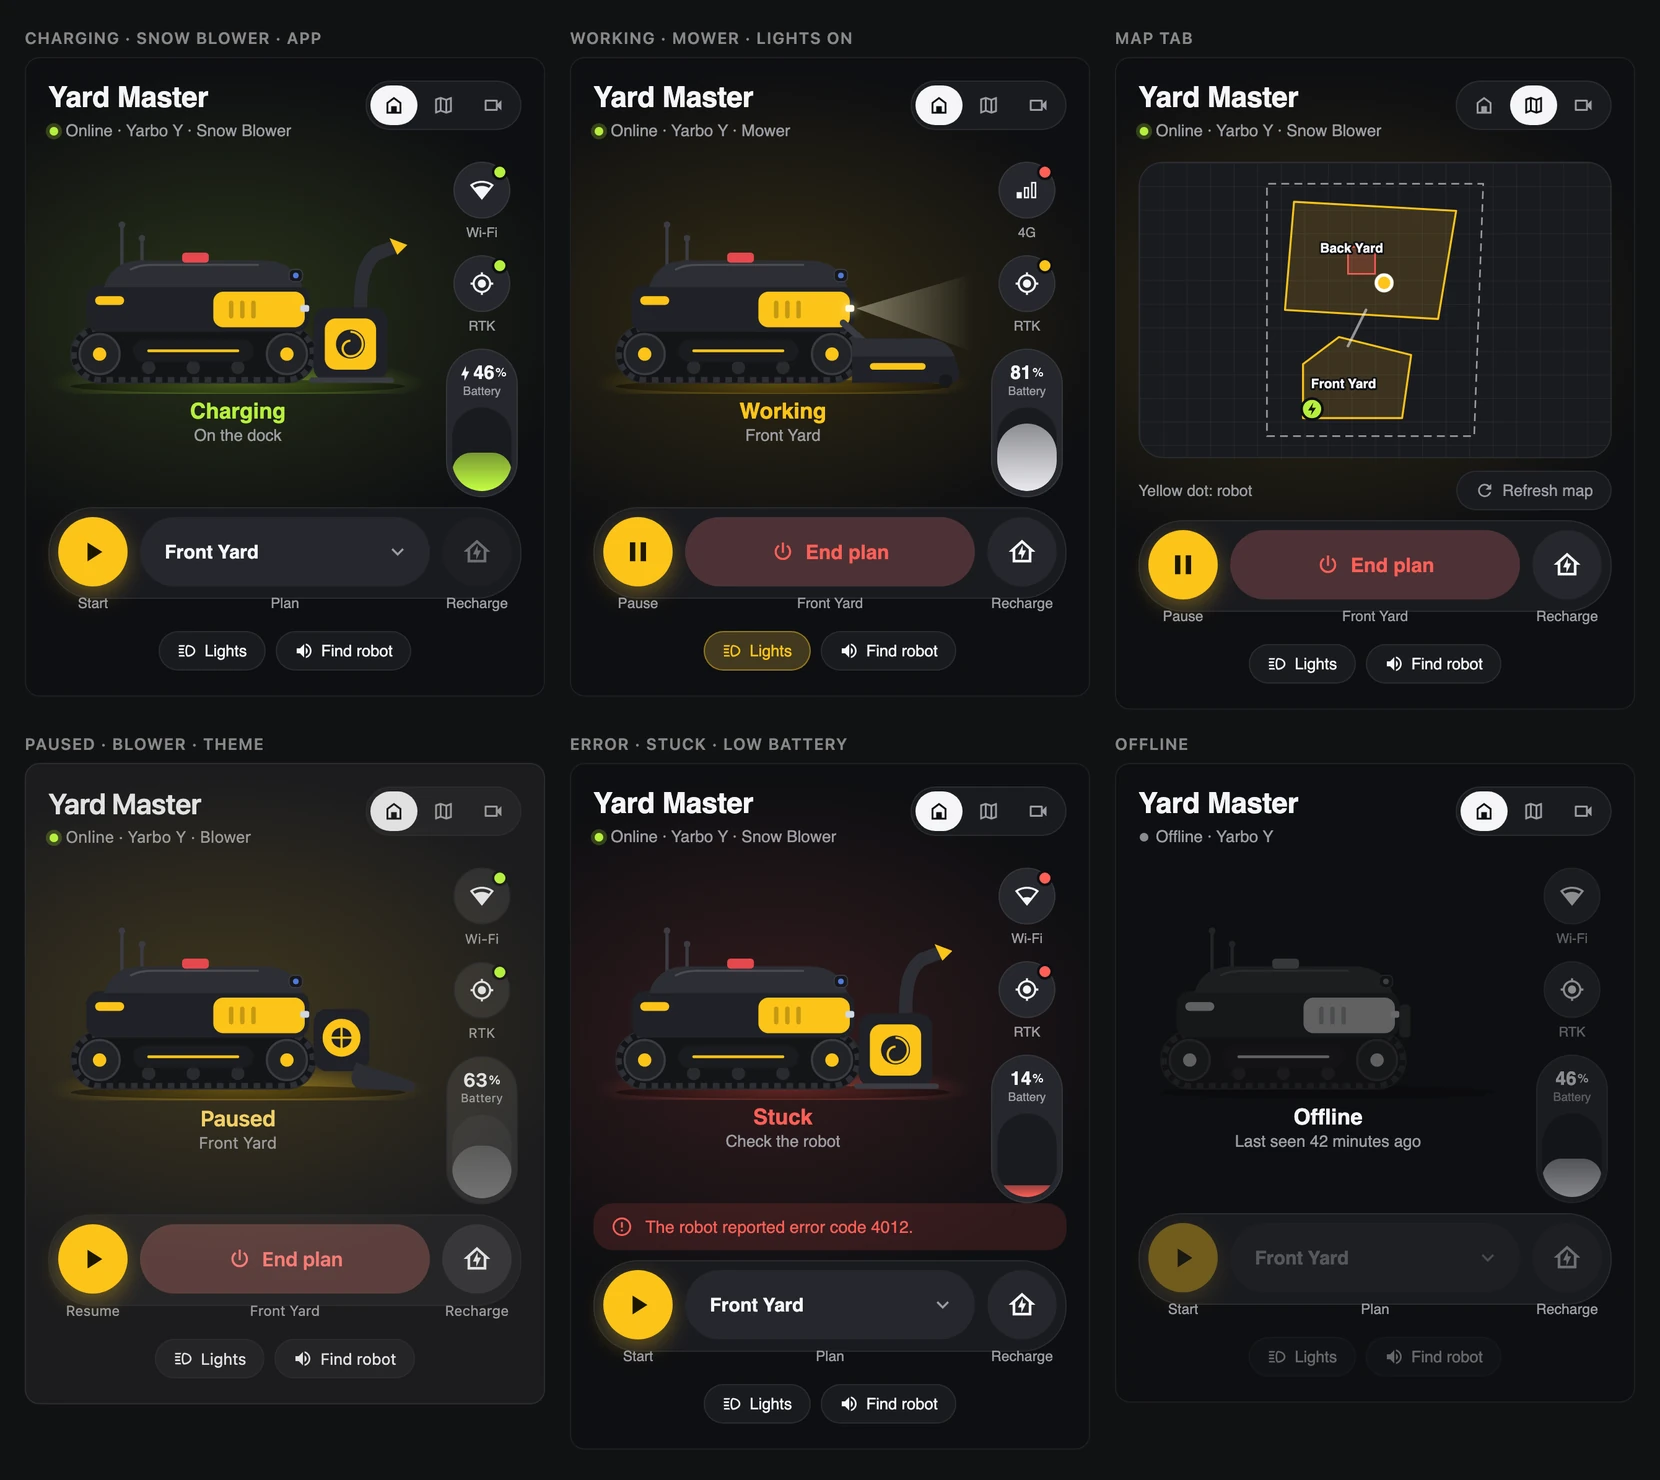
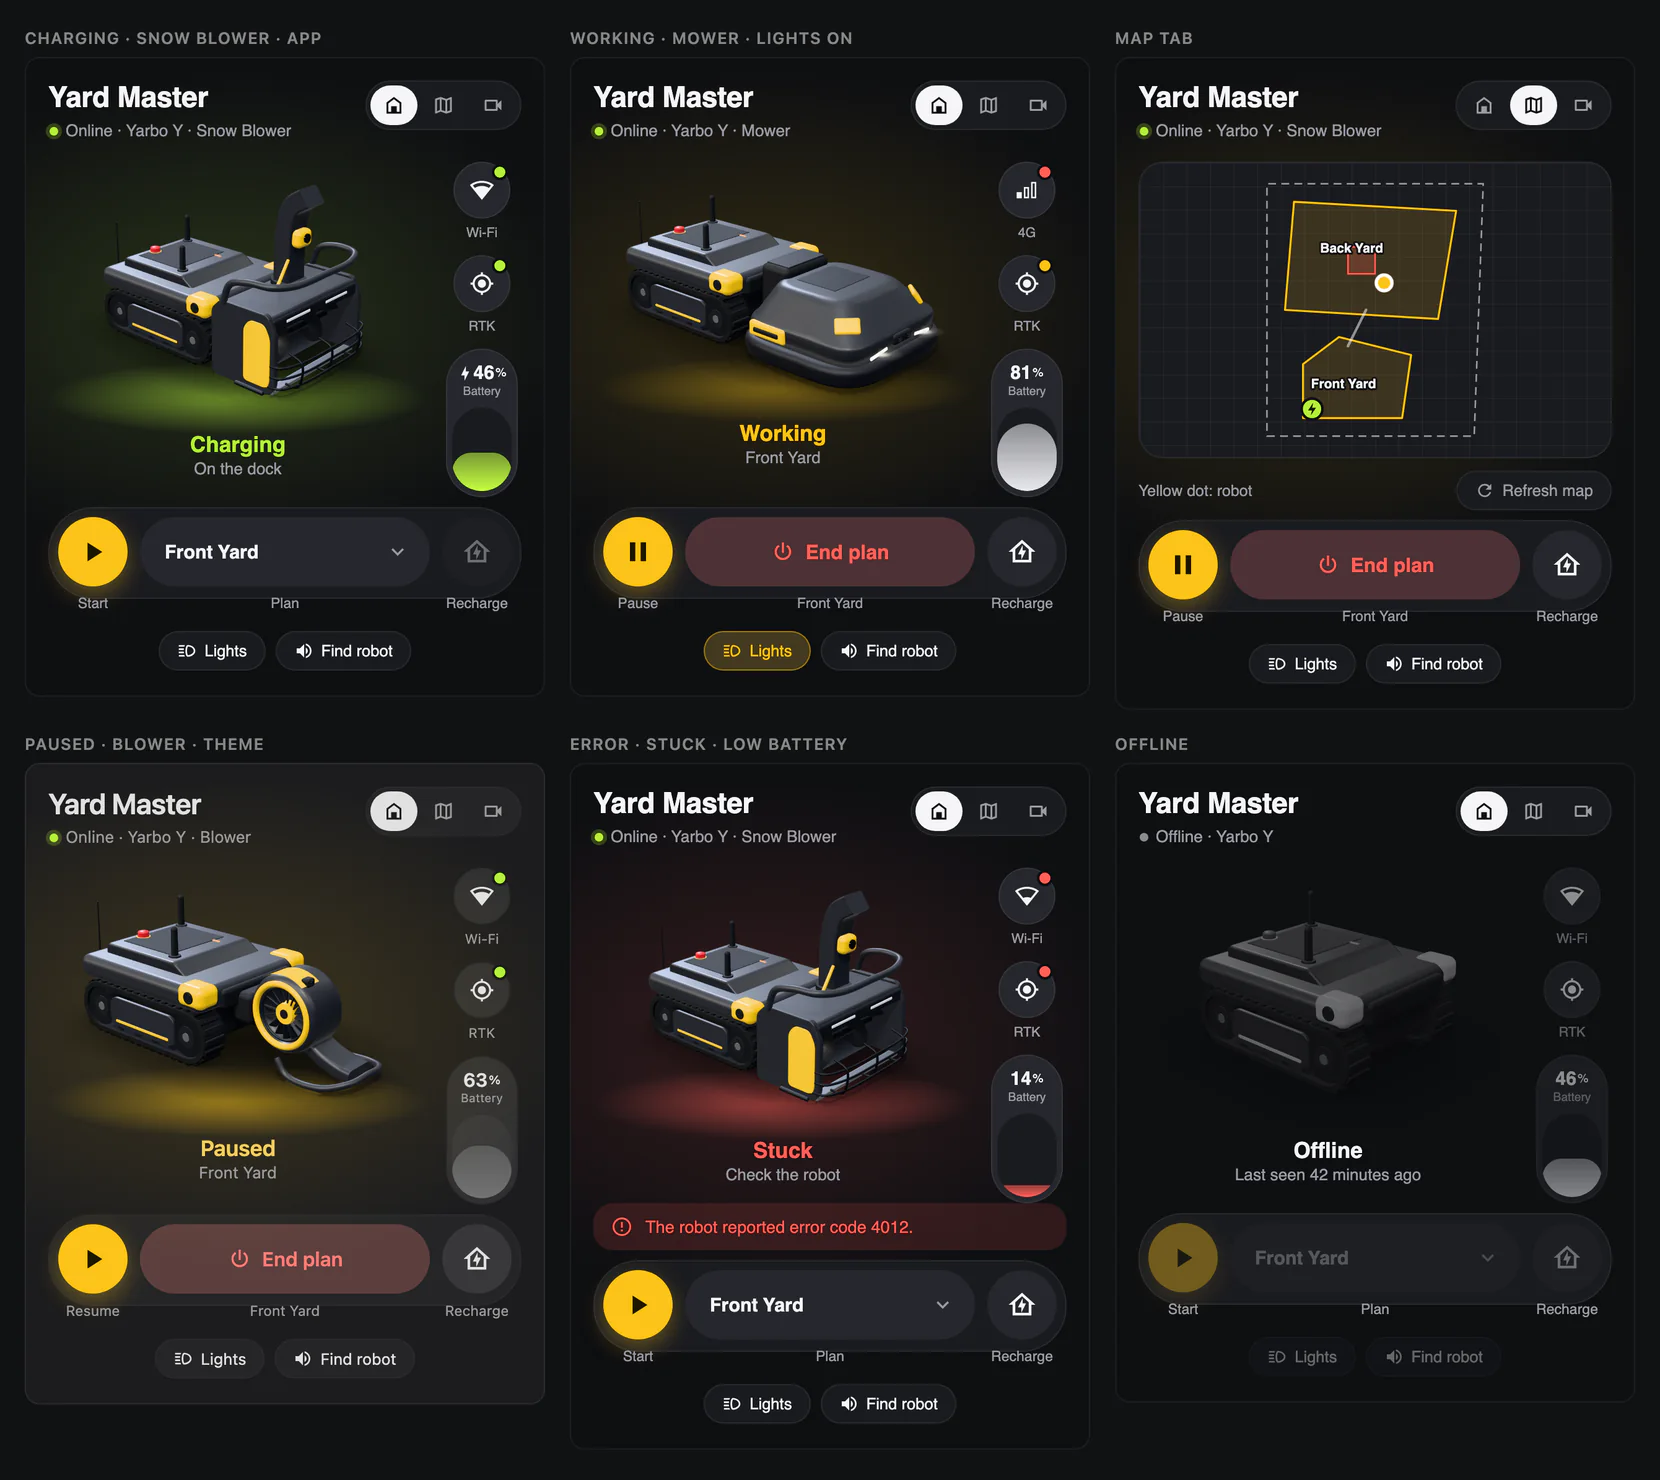
Yarbo card: show 3D pictures of the robot and its module
- The card shows rendered pictures (original 3D renders, not Yarbo's
  product photos) instead of the flat drawing: the Yarbo Y core, snow
  blower, mower and blower. The snow blower and mower also have a
  lights-on version in the same framing, preloaded so toggling Lights
  doesn't flash. The Smart Cover, no module, or an unknown one show the
  core.
- Yarbo M pictures (core, mower, snow blower, rear trimmer and collector)
  are used when the device model reads like "Yarbo M"; Yarbo's SDK only
  lists the Y Series so far.
- While the robot works or returns, the status-color glow under it
  pulses gently.
- The card's version fingerprint now covers the pictures, so browsers
  pick up new ones after an update. Tests check every picture the card
  names exists at the width it reserves.
- README screenshots and text updated for the pictures.

diff --git a/custom_components/yarbo/www/yarbo-card.js b/custom_components/yarbo/www/yarbo-card.js
@@ -7,7 +7,7 @@
  *   appearance: app             # app (dark, like the Yarbo app) or theme
  *   show_map: true              # optional, the work-zone map tab
  *   show_live: true             # optional, the Smart Vision tab (admins only)
- *   image: /local/yarbo.png     # optional, replaces the drawing of the robot
+ *   image: /local/yarbo.png     # optional, replaces the card's picture of the robot
  *   live_max_minutes: 5         # optional, stops the live camera automatically
  *
  * Entities are found through the integration's yarbo/devices command, by their
@@ -95,6 +95,10 @@ function headKind(headType) {
     case "Smart Cover":
       return "cover";
     default:
+      // Yarbo's SDK doesn't list the Yarbo M's rear trimmer and collector yet, so
+      // these names are a guess.
+      if (/trim/i.test(headType || "")) return "trim";
+      if (/collect/i.test(headType || "")) return "collect";
       return "none";
   }
 }
@@ -107,81 +111,46 @@ function signalBars(rssi) {
   return 1;
 }
 
-// ---- Drawing of the robot ---------------------------------------------------
+// ---- Picture of the robot ----------------------------------------------------------
 
-const HEADS = {
-  mower: `
-    <path class="rb-arm" d="M244 118 L262 134"/>
-    <path class="rb-body" d="M252 132 H318 Q338 132 344 148 L348 160 Q350 172 338 172 H252 Z"/>
-    <path class="rb-lid" d="M252 132 H318 Q338 132 344 148 H252 Z"/>
-    <rect class="rb-yellow" x="268" y="154" width="50" height="6" rx="3"/>
-    <circle class="rb-tire" cx="336" cy="170" r="6"/>`,
-  snow: `
-    <path class="rb-chute" d="M300 104 C300 82 302 66 314 56 L330 50"/>
-    <path class="rb-yellow" d="M326 42 L342 48 L333 57 Z"/>
-    <rect class="rb-body" x="258" y="104" width="66" height="66" rx="12"/>
-    <rect class="rb-yellow" x="268" y="114" width="46" height="46" rx="10"/>
-    <circle class="rb-body" cx="291" cy="137" r="13"/>
-    <path class="rb-spiral" d="M291 126 a11 11 0 0 1 0 22 a7 7 0 0 1 0 -14"/>
-    <rect class="rb-steel" x="254" y="167" width="76" height="5" rx="2.5"/>`,
-  blower: `
-    <rect class="rb-body" x="258" y="100" width="50" height="56" rx="12"/>
-    <circle class="rb-yellow" cx="283" cy="126" r="17"/>
-    <circle class="rb-body" cx="283" cy="126" r="9"/>
-    <path class="rb-spoke" d="M283 117 V135 M274 126 H292"/>
-    <path class="rb-lid" d="M296 148 L344 164 Q351 167 348 174 L300 172 Q291 170 292 160 Z"/>`,
-  cover: `
-    <path class="rb-lid" d="M96 62 V44 Q96 36 104 36 H210 Q218 36 218 44 V62 Z"/>
-    <rect class="rb-yellow" x="112" y="44" width="62" height="5" rx="2.5"/>
-    <rect class="rb-lid" x="254" y="96" width="10" height="30" rx="4"/>`,
-  none: `<rect class="rb-lid" x="254" y="96" width="10" height="30" rx="4"/>`,
+// The card's own renders of each series and module, served next to this file. They
+// carry the card's ?v= fingerprint, so an update refreshes them in the browser cache too.
+const PICTURE_DIR = new URL("images/", import.meta.url);
+const PICTURE_VERSION = new URL(import.meta.url).search;
+// Widths at 600 px high, so the card keeps its layout while a picture loads.
+const PICTURES = {
+  "y-core": 856, "y-snow": 808, "y-mower": 1008, "y-blower": 946,
+  "m-core": 823, "m-snow": 867, "m-mower": 918, "m-trim": 882, "m-collect": 961,
 };
+// These also come with the module's lights on, in the same framing.
+const LIT_PICTURES = new Set(["y-snow", "y-mower"]);
+// Kept referenced, so the browser keeps them decoded and a new <img> shows them at once.
+const preloaded = new Map();
 
-function robotSvg(kind, { moving, light }) {
-  return `
-    <svg viewBox="20 20 340 162" role="img" aria-label="Yarbo robot">
-      <defs>
-        <radialGradient id="yc-glow" cx="50%" cy="50%" r="50%">
-          <stop offset="0" style="stop-color: var(--yc-tone, transparent); stop-opacity: 0.55"/>
-          <stop offset="1" style="stop-color: var(--yc-tone, transparent); stop-opacity: 0"/>
-        </radialGradient>
-        <linearGradient id="yc-beam" x1="0" x2="1" y1="0" y2="0">
-          <stop offset="0" stop-color="#fff8d6" stop-opacity="0.75"/>
-          <stop offset="1" stop-color="#fff8d6" stop-opacity="0"/>
-        </linearGradient>
-      </defs>
-      <ellipse cx="190" cy="172" rx="170" ry="24" fill="url(#yc-glow)"/>
-      <ellipse class="rb-shadow" cx="190" cy="175" rx="150" ry="6"/>
-      ${light ? `<polygon class="rb-beam" points="256,105 360,74 360,144" fill="url(#yc-beam)"/>` : ""}
-      <line class="rb-antenna" x1="86" y1="66" x2="86" y2="30"/>
-      <line class="rb-antenna" x1="104" y1="64" x2="104" y2="42"/>
-      <circle class="rb-tip" cx="86" cy="30" r="3"/>
-      <circle class="rb-tip" cx="104" cy="42" r="3"/>
-      <rect class="rb-track" x="40" y="120" width="220" height="52" rx="26"/>
-      <rect class="rb-tread${moving ? " moving" : ""}" x="43" y="123" width="214" height="46" rx="23"/>
-      <circle class="rb-wheel" cx="66" cy="146" r="18"/>
-      <circle class="rb-wheel" cx="234" cy="146" r="18"/>
-      <circle class="rb-hub" cx="66" cy="146" r="6"/>
-      <circle class="rb-hub" cx="234" cy="146" r="6"/>
-      <circle class="rb-roller" cx="110" cy="158" r="6"/>
-      <circle class="rb-roller" cx="150" cy="158" r="6"/>
-      <circle class="rb-roller" cx="190" cy="158" r="6"/>
-      <rect class="rb-cover" x="96" y="133" width="108" height="20" rx="10"/>
-      <line class="rb-stripe" x1="110" y1="143" x2="190" y2="143"/>
-      <rect class="rb-body" x="54" y="84" width="200" height="42" rx="12"/>
-      <rect class="rb-yellow" x="168" y="90" width="82" height="32" rx="9"/>
-      <rect class="rb-vent" x="182" y="98" width="4" height="16" rx="2"/>
-      <rect class="rb-vent" x="192" y="98" width="4" height="16" rx="2"/>
-      <rect class="rb-vent" x="202" y="98" width="4" height="16" rx="2"/>
-      <rect class="rb-yellow" x="62" y="94" width="26" height="8" rx="4"/>
-      <path class="rb-lid" d="M70 86 Q76 64 100 62 H214 Q240 62 248 86 Z"/>
-      <path class="rb-shine" d="M94 70 Q102 66 112 66 H208"/>
-      <rect class="rb-estop" x="140" y="55" width="24" height="9" rx="3"/>
-      <rect class="rb-camera" x="236" y="70" width="12" height="11" rx="4"/>
-      <circle class="rb-lens" cx="242" cy="75.5" r="2.6"/>
-      <rect class="rb-led${light ? " on" : ""}" x="246" y="102" width="8" height="6" rx="2"/>
-      ${HEADS[kind] || HEADS.none}
-    </svg>`;
+function pictureUrl(file) {
+  return new URL(`${file}.webp${PICTURE_VERSION}`, PICTURE_DIR).href;
+}
+
+function preload(url) {
+  if (preloaded.has(url)) return;
+  const img = new Image();
+  img.src = url;
+  preloaded.set(url, img);
+}
+
+// Yarbo's SDK only knows the Y Series so far; a model named like "Yarbo M" gets the M pictures.
+function robotSeries(model) {
+  return /\bM\d*\b/.test(model || "") ? "m" : "y";
+}
+
+function robotPicture(series, kind, light) {
+  // A module without its own picture, such as the Smart Cover, shows the bare core.
+  const name = `${series}-${kind}` in PICTURES ? `${series}-${kind}` : `${series}-core`;
+  const lit = LIT_PICTURES.has(name);
+  // Load the other lights version too, so switching the lights doesn't flash an empty frame.
+  if (lit) preload(pictureUrl(light ? name : `${name}-lights`));
+  const file = lit && light ? `${name}-lights` : name;
+  return `<img src="${pictureUrl(file)}" width="${PICTURES[name]}" height="600" alt="">`;
 }
 
 // ---- Work-zone map ------------------------------------------------------------
@@ -388,9 +357,16 @@ const STYLE = `
     display: grid; grid-template-columns: minmax(0, 1fr) 64px; align-items: center; gap: 12px;
   }
   .stage { display: flex; flex-direction: column; align-items: center; gap: 4px; min-width: 0; }
-  .robot { width: 100%; max-width: 380px; transition: filter 0.4s, opacity 0.4s; }
-  .robot svg, .robot img {
-    display: block; width: 100%; height: auto; max-height: 200px; object-fit: contain;
+  .robot { position: relative; width: 100%; max-width: 380px; transition: filter 0.4s, opacity 0.4s; }
+  /* A glow in the status color under the robot, breathing while it drives. */
+  .robot::before {
+    content: ""; position: absolute; left: 0; right: 0; bottom: -3%; height: 30%;
+    background: radial-gradient(closest-side, color-mix(in srgb, var(--yc-tone, transparent) 55%, transparent), transparent);
+    pointer-events: none;
+  }
+  .robot.moving::before { animation: yc-glow 2.4s ease-in-out infinite; }
+  .robot img {
+    position: relative; display: block; width: 100%; height: auto; max-height: 200px; object-fit: contain;
   }
   .robot.offline { filter: grayscale(1); opacity: 0.45; }
   .state { text-align: center; }
@@ -580,36 +556,7 @@ const STYLE = `
   }
   .toast.show { opacity: 1; transform: none; }
 
-  /* Robot drawing */
-  .rb-shadow { fill: #000; opacity: 0.4; }
-  .rb-track { fill: #141518; stroke: #2a2b30; stroke-width: 1; }
-  .rb-tread { fill: none; stroke: #2e2f35; stroke-width: 5; stroke-dasharray: 6 5; }
-  .rb-tread.moving { animation: yc-tread 0.5s linear infinite; }
-  .rb-wheel { fill: #222327; stroke: #3a3b41; stroke-width: 2; }
-  .rb-hub, .rb-yellow { fill: #fcc419; }
-  .rb-roller { fill: #2a2b30; }
-  .rb-cover { fill: #1b1c20; }
-  .rb-stripe { stroke: #fcc419; stroke-width: 2.5; stroke-linecap: round; }
-  .rb-body { fill: #202127; }
-  .rb-lid { fill: #2d2e34; }
-  .rb-shine { fill: none; stroke: rgba(255, 255, 255, 0.14); stroke-width: 2; stroke-linecap: round; }
-  .rb-vent { fill: rgba(0, 0, 0, 0.22); }
-  .rb-estop { fill: #e5484d; }
-  .rb-antenna { stroke: #3b3c43; stroke-width: 3; stroke-linecap: round; }
-  .rb-tip { fill: #3b3c43; }
-  .rb-camera { fill: #17181c; stroke: #3b3c43; stroke-width: 1; }
-  .rb-lens { fill: #5b8cff; opacity: 0.85; }
-  .rb-led { fill: #cfd6e4; }
-  .rb-led.on { fill: #fffbe6; filter: drop-shadow(0 0 4px #fff3b0); }
-  .rb-beam { opacity: 0.55; }
-  .rb-arm { stroke: #3b3c43; stroke-width: 6; stroke-linecap: round; }
-  .rb-tire { fill: #17181c; }
-  .rb-chute { fill: none; stroke: #2d2e34; stroke-width: 12; stroke-linecap: round; }
-  .rb-spiral { fill: none; stroke: #fcc419; stroke-width: 2; }
-  .rb-steel { fill: #3b3c43; }
-  .rb-spoke { stroke: #fcc419; stroke-width: 2; stroke-linecap: round; }
-
-  @keyframes yc-tread { to { stroke-dashoffset: -11; } }
+  @keyframes yc-glow { 50% { opacity: 0.4; } }
   @keyframes yc-ping { from { transform: scale(0.6); opacity: 0.45; } to { transform: scale(2); opacity: 0; } }
   @keyframes yc-breathe { 50% { filter: brightness(1.18); } }
   @keyframes yc-busy { 50% { opacity: 0.55; } }
@@ -983,9 +930,10 @@ class YarboCard extends HTMLElement {
   }
 
   _homeHtml(m) {
+    const moving = m.mode === "working" || m.mode === "returning";
     const image = this._config.image
       ? `<img src="${esc(this._config.image)}" alt="">`
-      : robotSvg(m.head, { moving: m.mode === "working" || m.mode === "returning", light: m.light });
+      : robotPicture(robotSeries(this._device.model), m.head, m.light);
 
     const netIcon =
       m.network === "4G"
@@ -1038,7 +986,7 @@ class YarboCard extends HTMLElement {
     return `
       <div class="hero">
         <div class="stage">
-          <div class="robot${m.mode === "offline" ? " offline" : ""}">${image}</div>
+          <div class="robot${m.mode === "offline" ? " offline" : ""}${moving ? " moving" : ""}">${image}</div>
           <div class="state">
             <div class="label">${esc(m.label)}</div>
             <div class="detail">${esc(m.detail)}</div>

diff --git a/tests/test_cards.py b/tests/test_cards.py
@@ -14,8 +14,10 @@ from pytest_homeassistant_custom_component.common import MockConfigEntry
 
 from custom_components.yarbo.cards import (
     CARD_FILES,
+    PICTURES_DIR,
     STATIC_URL,
     WWW_DIR,
+    _fingerprints,
     async_register_cards,
 )
 from custom_components.yarbo.const import DOMAIN
@@ -27,6 +29,40 @@ SN = "SN123"
 def test_card_files_exist() -> None:
     for name in CARD_FILES:
         assert (WWW_DIR / name).is_file()
+
+
+def test_card_pictures_match_the_card() -> None:
+    """Every picture the Yarbo card names exists, at the width the card reserves for it."""
+    image = pytest.importorskip("PIL.Image")
+    source = (WWW_DIR / "yarbo-card.js").read_text()
+    table = re.search(r"const PICTURES = \{(.*?)\};", source, re.S).group(1)
+    widths = {name: int(width) for name, width in re.findall(r'"([a-z]-[a-z]+)": (\d+)', table)}
+    lit = re.search(r"const LIT_PICTURES = new Set\(\[(.*?)\]\)", source).group(1)
+    lit_names = re.findall(r'"([^"]+)"', lit)
+    assert widths and lit_names and set(lit_names) <= set(widths)
+
+    files = dict(widths) | {f"{name}-lights": widths[name] for name in lit_names}
+    for name, width in files.items():
+        with image.open(PICTURES_DIR / f"{name}.webp") as picture:
+            assert picture.size == (width, 600), name
+    assert {path.stem for path in PICTURES_DIR.glob("*.webp")} == set(files)
+
+
+def test_pictures_change_the_card_fingerprint(tmp_path) -> None:
+    www = tmp_path / "www"
+    (www / "images").mkdir(parents=True)
+    for name in CARD_FILES:
+        (www / name).write_text("card")
+    (www / "images" / "y-core.webp").write_bytes(b"one")
+    with (
+        patch("custom_components.yarbo.cards.WWW_DIR", www),
+        patch("custom_components.yarbo.cards.PICTURES_DIR", www / "images"),
+    ):
+        before = _fingerprints()
+        (www / "images" / "y-core.webp").write_bytes(b"two")
+        after = _fingerprints()
+    assert before["yarbo-card.js"] != after["yarbo-card.js"]
+    assert before["yarbo-smart-vision-card.js"] == after["yarbo-smart-vision-card.js"]
 
 
 async def test_cards_are_registered_once(hass) -> None:

diff --git a/custom_components/yarbo/cards.py b/custom_components/yarbo/cards.py
@@ -1,7 +1,8 @@
 """Serve the integration's dashboard cards and load them in the frontend.
 
 Each card is loaded with a fingerprint of its contents in the URL, so browsers
-pick up a new version after an update without a manual cache clear.
+pick up a new version after an update without a manual cache clear. The Yarbo
+card's robot pictures reuse its fingerprint, so they count toward it.
 """
 
 from __future__ import annotations
@@ -16,14 +17,19 @@ from homeassistant.core import HomeAssistant
 WWW_DIR = Path(__file__).parent / "www"
 STATIC_URL = "/yarbo_static"
 CARD_FILES = ("yarbo-smart-vision-card.js", "yarbo-card.js")
+PICTURES_DIR = WWW_DIR / "images"
 _REGISTERED_KEY = "yarbo_cards_registered"
 
 
 def _fingerprints() -> dict[str, str]:
-    return {
-        name: hashlib.sha256((WWW_DIR / name).read_bytes()).hexdigest()[:12]
-        for name in CARD_FILES
-    }
+    prints = {}
+    for name in CARD_FILES:
+        digest = hashlib.sha256((WWW_DIR / name).read_bytes())
+        if name == "yarbo-card.js":
+            for path in sorted(PICTURES_DIR.glob("*.webp")):
+                digest.update(path.read_bytes())
+        prints[name] = digest.hexdigest()[:12]
+    return prints
 
 
 async def async_register_cards(hass: HomeAssistant) -> None:

diff --git a/README.md b/README.md
@@ -133,7 +133,7 @@ name: Yard Master        # optional
 appearance: app          # app (dark, like the Yarbo app) or theme (follows your dashboard)
 show_map: true           # optional, adds a Map tab with your work zones
 show_live: true          # optional, adds a Live tab with Smart Vision (admins only)
-image: /local/yarbo.png  # optional, shows your own picture instead of the drawing
+image: /local/yarbo.png  # optional, shows your own picture instead of the card's
 ```
 
 `appearance: app` gives the card the Yarbo app's dark look. `appearance: theme` uses your
@@ -151,8 +151,12 @@ dashboard's colors instead:
 - Tapping the battery, network or RTK icons opens that entity's details.
 - The **Map** tab draws the zones from **Refresh Map Data**, and the robot's position once
   it has an RTK fix.
-- The robot drawing is the card's own artwork, not Yarbo's product images. The screenshots
-  use simulated robot data.
+- The robot picture shows the attached module: snow blower, mower or blower. The snow blower
+  and mower also show their lights when **Lights** is on. With the Smart Cover or no module
+  attached, it shows the bare core.
+- The pictures are the card's own 3D renders, not Yarbo's product photos, and the screenshots
+  use simulated robot data. The card also has pictures of the Yarbo M and its attachments, for
+  when Yarbo's SDK supports the M.
 
 ---
 
